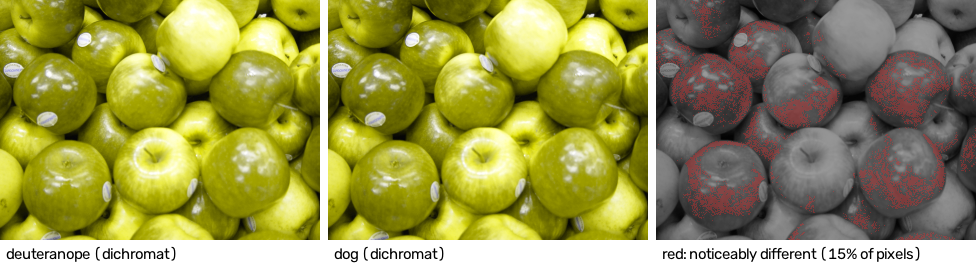
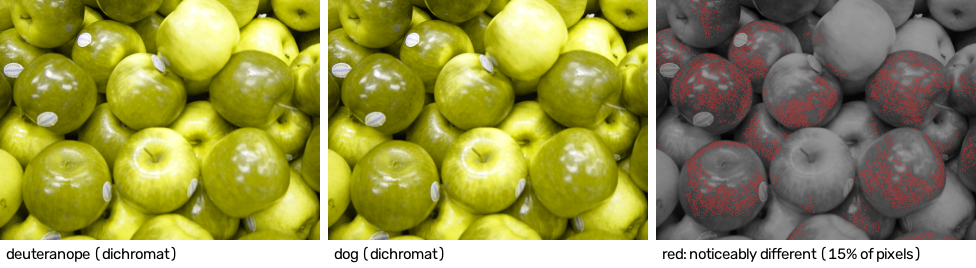
fix: round the sRGB encoding so that strength 0 shows the original
The linear-to-sRGB lookup index was truncated, which darkened the 8-bit
values 3, 4, 7, 8, 11, 14 and 17 by one even through the identity, so
neither strength 0 nor a human's view gave the image back. Rounding it
makes the identity exact; the figures in docs/ are rendered again.

diff --git a/tests/test_imaging.py b/tests/test_imaging.py
@@ -26,10 +26,19 @@ def test_apply_bgr_reads_the_matrix_in_rgb_order():
     assert out[0, 0].tolist() == [255, 0, 0]  # BGR blue
 
 
+def test_the_identity_gives_every_value_back():
+    values = np.arange(256, dtype=np.uint8).reshape(16, 16, 1).repeat(3, axis=2)
+    np.testing.assert_array_equal(apply_bgr(values, np.eye(3)), values)
+
+
+def test_strength_zero_shows_the_original(photo):
+    np.testing.assert_array_equal(simulate(photo, Params("dog", strength=0.0)), photo)
+
+
 def test_apply_bgr_works_in_linear_light():
     half = np.eye(3) * 0.5
     out = apply_bgr(solid(255, 1, 1), half)
-    assert (abs(out.astype(int) - 188) <= 1).all()  # sRGB of linear 0.5 is 187.5, not 128
+    assert out[0, 0].tolist() == [188] * 3  # sRGB of linear 0.5 is 187.5, not 128
 
 
 def test_apply_bgr_clips_to_the_displayable_range():

diff --git a/src/dog_vision/core/imaging.py b/src/dog_vision/core/imaging.py
@@ -45,7 +45,9 @@ def apply_bgr(frame_bgr: np.ndarray, t_rgb: np.ndarray, blur: tuple[float, float
         linear = cv2.GaussianBlur(linear, (0, 0), sigmaX=blur[0], sigmaY=blur[1])
     out = linear @ t_bgr.T
     np.clip(out, 0.0, 1.0, out=out)
-    return _ENCODE[(out * (_ENCODE_STEPS - 1)).astype(np.int32)]
+    # Rounded, not truncated: truncating darkens values near black, where the curve is steepest,
+    # so that even the identity would not give the image back.
+    return _ENCODE[(out * (_ENCODE_STEPS - 1) + 0.5).astype(np.int32)]
 
 
 HUMAN_JND_DELTA_E = 2.3  # CIELAB Delta E*ab of one just-noticeable difference (Mahy et al. 1994)
